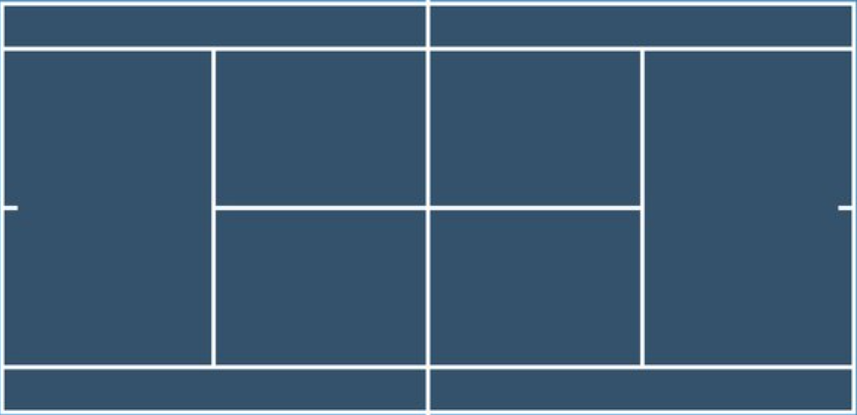
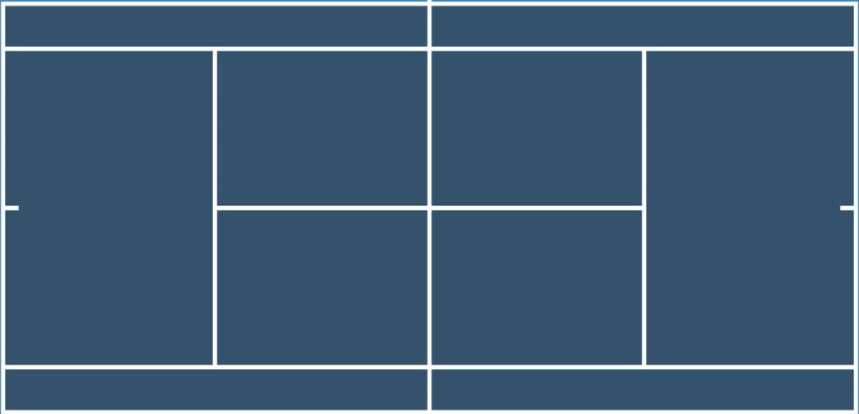
Added ball movement

Changed region(s): [[0.0, 0.0, 1.0, 1.0], [0.9708, 0.4928, 1.0, 0.5217]]

diff --git a/main.py b/main.py
@@ -47,6 +47,8 @@ clock = time.Clock()
 ball = GameSprite('tenis_ball.png', 225, 325, 50, 50, 4)
 padel_left = Player('racket.webp', 40, 190, 37, 136, 3)
 padel_right = Player('racket.webp', 620, 190, 37, 136, 3)
+d_y = 3
+d_x = 3
 score = 0
 finish = False
 run = True
@@ -64,6 +66,8 @@ while run:
         padel_right.draw()
         padel_left.update_l()
         padel_right.update_r()
+        ball.rect.x += d_x
+        ball.rect.y += d_y
         # text_score = font.SysFont(None, 33).render('Счет: '+str(score), 1, WHITE)
         
     display.update()
